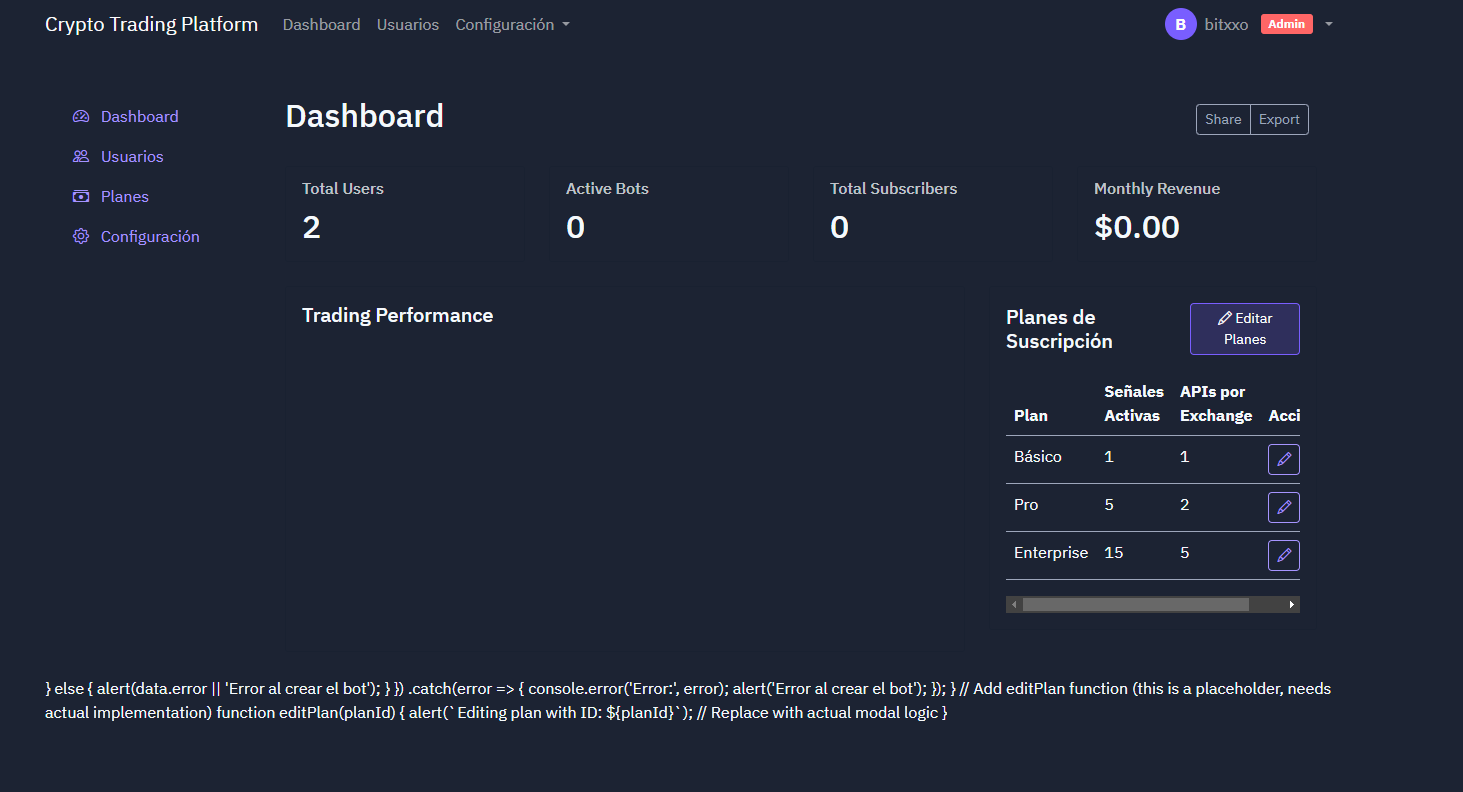
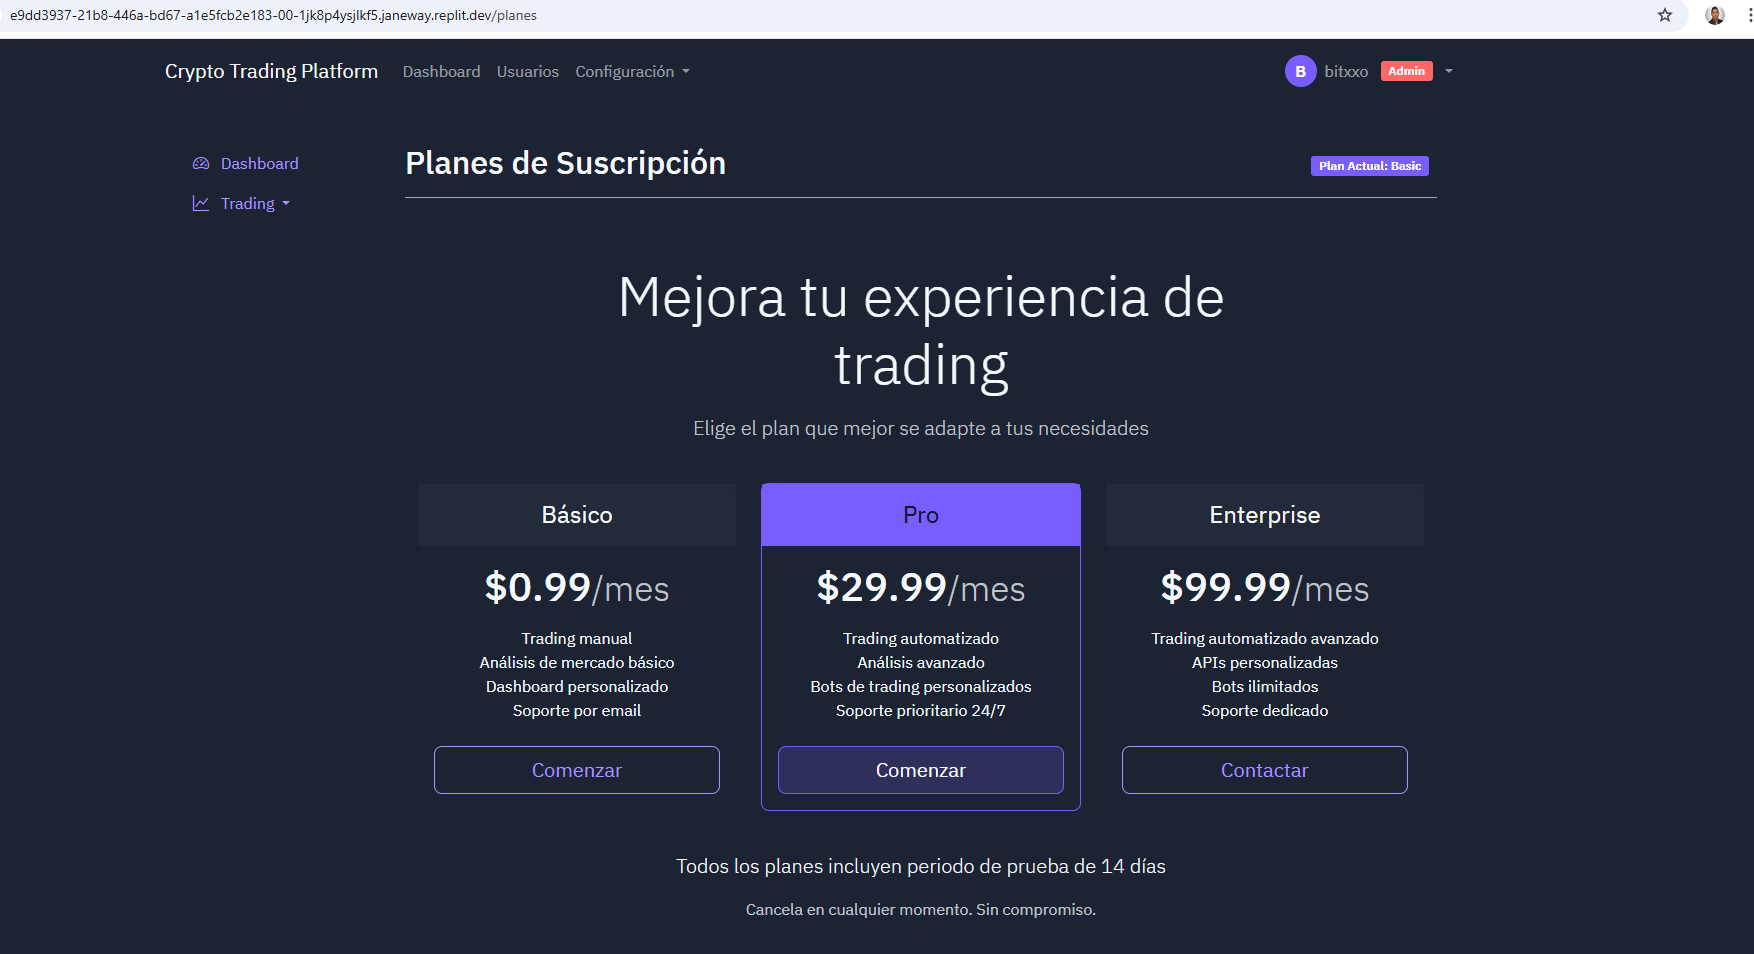
Agent query: ¿Puedes ver el botón "Administrar Planes" en la página de planes cuando estás logueado como admin? ¿El modal de edición se abre correctamente?
Add admin functionality to manage subscription plans.

Screenshot: https://storage.googleapis.com/screenshot-production-us-central1/e9dd3937-21b8-446a-bd67-a1e5fcb2e183/2ef58824-fa7c-4f74-a91f-b938de2b05f8.jpg

diff --git a/app/templates/subscription/plans.html b/app/templates/subscription/plans.html
@@ -51,6 +51,14 @@
                 Ya tienes el plan {{ current_user.subscription_type|title }}. Al actualizar, se ajustará el precio proporcionalmente.
             </div>
             {% endif %}
+
+            {% if current_user.is_admin %}
+            <div class="mb-3">
+                <button class="btn btn-outline-primary" data-bs-toggle="modal" data-bs-target="#editPlanModal">
+                    <i class="bi bi-gear-fill me-2"></i>Administrar Planes
+                </button>
+            </div>
+            {% endif %}
         </div>
     </div>
     
@@ -131,4 +139,95 @@
         </main>
     </div>
 </div>
+
+{% if current_user.is_admin %}
+<!-- Modal Editar Plan -->
+<div class="modal fade" id="editPlanModal" tabindex="-1">
+    <div class="modal-dialog modal-dialog-centered">
+        <div class="modal-content">
+            <div class="modal-header">
+                <h5 class="modal-title">Editar Plan de Suscripción</h5>
+                <button type="button" class="btn-close" data-bs-dismiss="modal"></button>
+            </div>
+            <div class="modal-body">
+                <form id="editPlanForm">
+                    <input type="hidden" id="planId" name="plan_id">
+                    <div class="mb-3">
+                        <label class="form-label">Nombre del Plan</label>
+                        <input type="text" class="form-control" id="planName" name="name" required>
+                    </div>
+                    <div class="mb-3">
+                        <label class="form-label">Señales Activas</label>
+                        <input type="number" class="form-control" id="activeSignals" name="active_signals" required min="1">
+                    </div>
+                    <div class="mb-3">
+                        <label class="form-label">APIs por Exchange</label>
+                        <input type="number" class="form-control" id="apisPerExchange" name="apis_per_exchange" required min="1">
+                    </div>
+                    <div class="mb-3">
+                        <label class="form-label">Precio (USD)</label>
+                        <div class="input-group">
+                            <span class="input-group-text">$</span>
+                            <input type="number" class="form-control" id="planPrice" name="price" required step="0.01">
+                            <span class="input-group-text">/mes</span>
+                        </div>
+                    </div>
+                </form>
+            </div>
+            <div class="modal-footer">
+                <button type="button" class="btn btn-secondary" data-bs-dismiss="modal">Cancelar</button>
+                <button type="button" class="btn btn-primary" onclick="savePlan()">
+                    Guardar Cambios
+                </button>
+            </div>
+        </div>
+    </div>
+</div>
+
+<script>
+function editPlan(planId) {
+    fetch(`/admin/subscription/plans/${planId}`)
+        .then(response => response.json())
+        .then(data => {
+            document.getElementById('planId').value = planId;
+            document.getElementById('planName').value = data.name;
+            document.getElementById('activeSignals').value = data.active_signals;
+            document.getElementById('apisPerExchange').value = data.apis_per_exchange;
+            document.getElementById('planPrice').value = data.price;
+            
+            const modal = new bootstrap.Modal(document.getElementById('editPlanModal'));
+            modal.show();
+        })
+        .catch(error => {
+            console.error('Error:', error);
+            alert('Error al cargar los datos del plan');
+        });
+}
+
+function savePlan() {
+    const form = document.getElementById('editPlanForm');
+    const formData = new FormData(form);
+    const planId = formData.get('plan_id');
+
+    fetch(`/admin/subscription/plans/${planId}/update`, {
+        method: 'POST',
+        body: formData
+    })
+    .then(response => response.json())
+    .then(data => {
+        if (data.success) {
+            const modal = bootstrap.Modal.getInstance(document.getElementById('editPlanModal'));
+            modal.hide();
+            window.location.reload();
+        } else {
+            alert(data.error || 'Error al actualizar el plan');
+        }
+    })
+    .catch(error => {
+        console.error('Error:', error);
+        alert('Error al actualizar el plan');
+    });
+}
+</script>
+{% endif %}
 {% endblock %}
